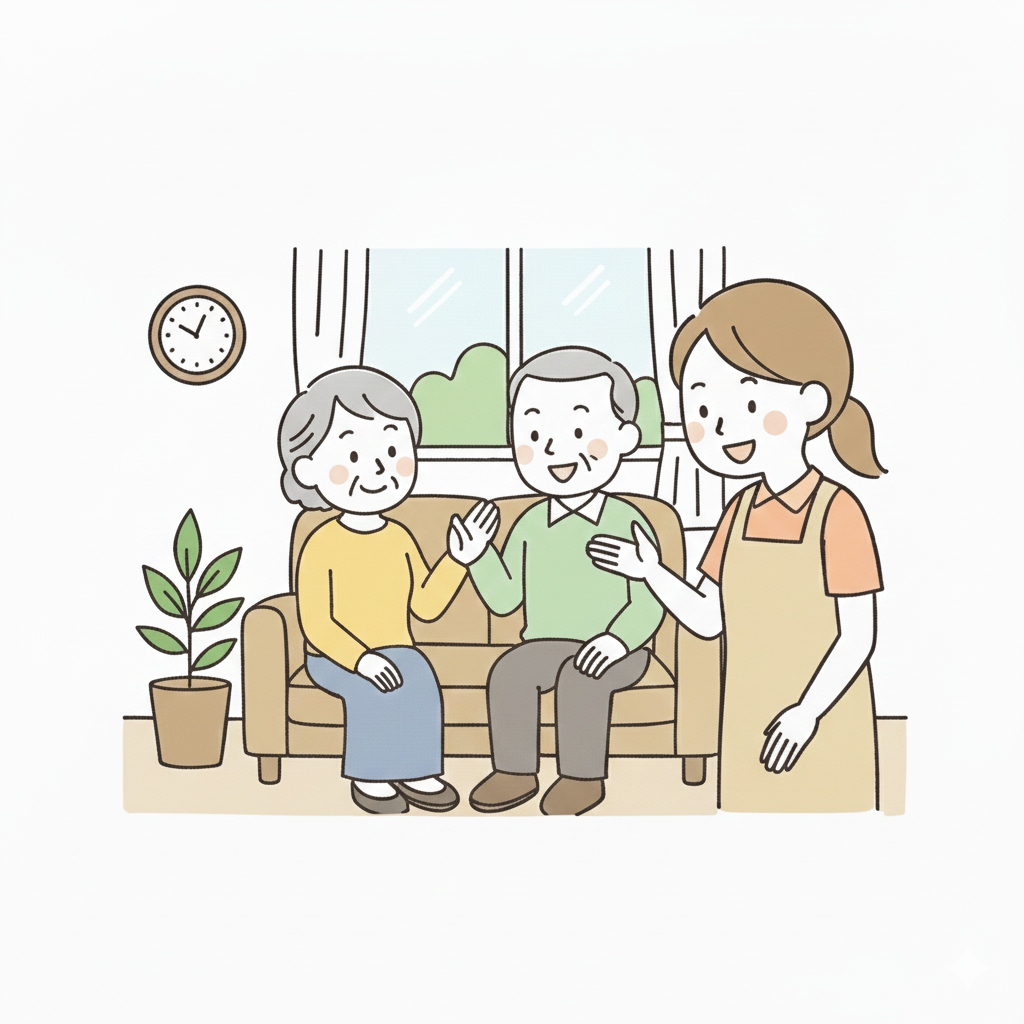
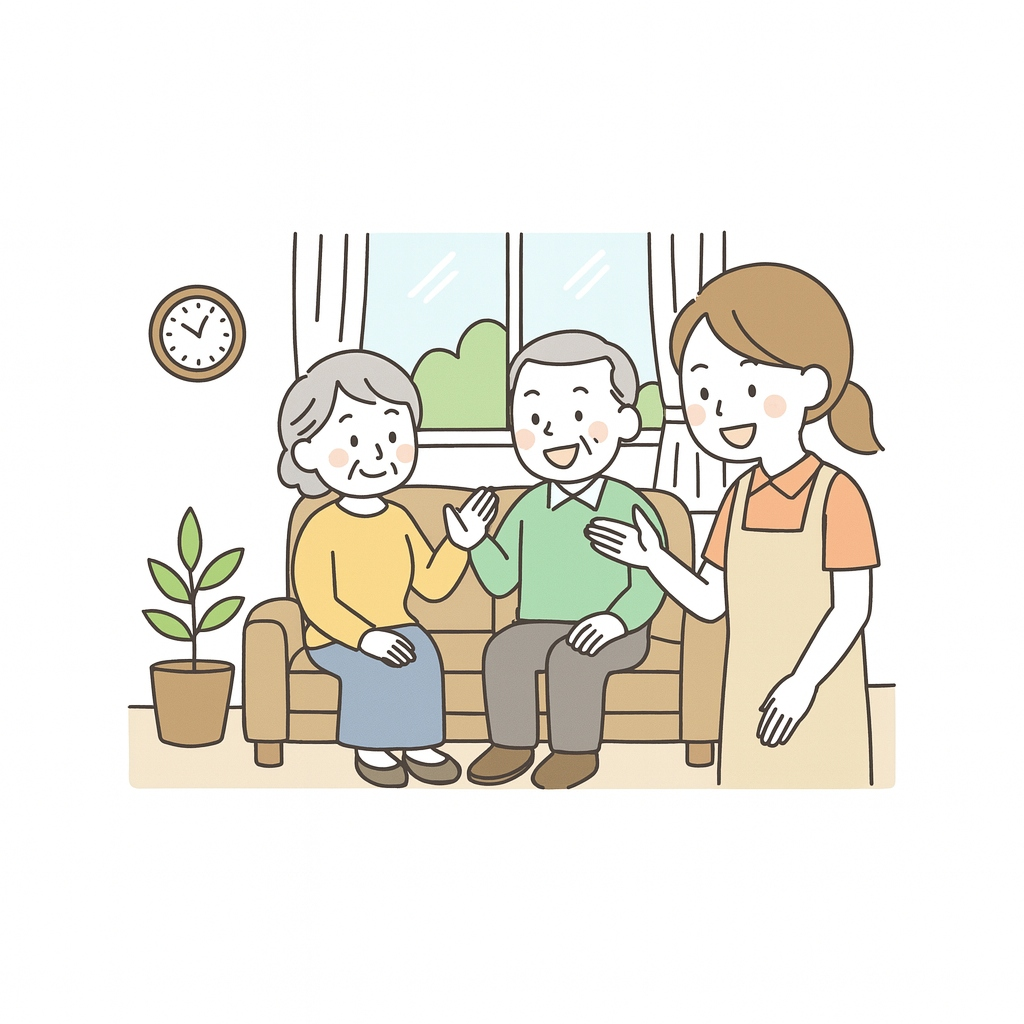
Update styles and optimize images
- Optimize case study images (reduced file size)
- Update index.html with minor adjustments
- Enhance CSS styles

🤖 Generated with [Claude Code](https://claude.com/claude-code)

Changed region(s): [[0.0938, 0.2188, 0.9062, 0.8125], [0.125, 0.2812, 0.25, 0.375]]

diff --git a/style.css b/style.css
@@ -271,8 +271,8 @@ section {
 /* Problem Section */
 .problem {
     padding-top: 0;
-    margin-top: -180px;
-    /* Increased pull-up to -180px */
+    margin-top: -320px;
+    /* Increased pull-up to -320px for maximum tightness */
     position: relative;
     z-index: 2;
 }
@@ -372,11 +372,20 @@ section {
     align-items: center;
     justify-content: center;
     height: 100%;
-    /* Match container height roughly */
-    color: var(--primary-light);
-    font-size: 2rem;
-    padding-top: 60px;
-    /* visually align with card center approx */
+    padding-top: 30px;
+    color: #fff;
+    font-size: 1.5rem;
+}
+
+.step-arrow i {
+    background: linear-gradient(135deg, #ff6b9d 0%, #f67280 100%);
+    width: 40px;
+    height: 40px;
+    border-radius: 50%;
+    display: flex;
+    align-items: center;
+    justify-content: center;
+    box-shadow: 0 5px 15px rgba(255, 107, 157, 0.4);
 }
 
 .arrow-down {
@@ -662,6 +671,29 @@ section {
     border-radius: 0 0 15px 15px;
 }
 
+.solution-message {
+    margin-top: 60px;
+    padding: 40px 30px;
+    background: linear-gradient(135deg, #ff6b9d 0%, #f67280 100%);
+    border-radius: 20px;
+    box-shadow: 0 10px 30px rgba(255, 107, 157, 0.3);
+}
+
+.solution-message h3 {
+    font-size: 3.5rem;
+    font-weight: 900;
+    color: #fff;
+    margin-bottom: 20px;
+    line-height: 1.2;
+}
+
+.solution-message p {
+    color: #fff;
+    opacity: 0.95;
+    font-size: 1.3rem;
+    font-weight: 500;
+}
+
 .plan-name {
     font-size: 1.4rem;
     font-weight: 700;
@@ -853,6 +885,37 @@ section {
     margin-bottom: 20px;
     border: 3px solid var(--white);
     box-shadow: 0 5px 15px rgba(0, 0, 0, 0.05);
+}
+
+/* Colorful icons for each benefit */
+.benefit-card:nth-child(1) .benefit-icon {
+    background: linear-gradient(135deg, #667eea 0%, #764ba2 100%);
+    color: white;
+}
+
+.benefit-card:nth-child(2) .benefit-icon {
+    background: linear-gradient(135deg, #f093fb 0%, #f5576c 100%);
+    color: white;
+}
+
+.benefit-card:nth-child(3) .benefit-icon {
+    background: linear-gradient(135deg, #4facfe 0%, #00f2fe 100%);
+    color: white;
+}
+
+.benefit-card:nth-child(4) .benefit-icon {
+    background: linear-gradient(135deg, #43e97b 0%, #38f9d7 100%);
+    color: white;
+}
+
+.benefit-card:nth-child(5) .benefit-icon {
+    background: linear-gradient(135deg, #fa709a 0%, #fee140 100%);
+    color: white;
+}
+
+.benefit-card:nth-child(6) .benefit-icon {
+    background: linear-gradient(135deg, #30cfd0 0%, #330867 100%);
+    color: white;
 }
 
 .benefit-card h3 {
@@ -1097,5 +1160,113 @@ section {
 
     .company-info dd {
         padding-left: 10px;
+    }
+}
+
+/* CTA Section - Make it SUPER prominent */
+.cta-tagline {
+    font-size: 3.5rem;
+    font-weight: 900;
+    color: #fff;
+    margin-bottom: 30px;
+    text-shadow: 0 4px 20px rgba(0, 0, 0, 0.5);
+    letter-spacing: 1px;
+    line-height: 1.2;
+}
+
+.cta-title {
+    font-size: 3rem;
+    font-weight: 900;
+    color: #fff;
+    background: transparent;
+    padding: 10px 20px;
+    margin-bottom: 5px;
+    display: inline-block;
+    -webkit-text-stroke: 3px #ff6b9d;
+    text-stroke: 3px #ff6b9d;
+    text-shadow: 0 0 10px rgba(255, 255, 255, 0.8);
+}
+
+.cta-desc {
+    font-size: 1.2rem;
+    margin-bottom: 10px;
+    color: #ff6b9d;
+    opacity: 1;
+}
+
+/* Make the button SUPER prominent */
+.cta .btn-white {
+    font-size: 1.8rem;
+    padding: 30px 80px;
+    font-weight: 900;
+    background: linear-gradient(135deg, #ff6b9d 0%, #f67280 100%);
+    color: #fff;
+    border: none;
+    box-shadow: 0 10px 40px rgba(255, 107, 157, 0.4), 0 0 30px rgba(255, 107, 157, 0.3);
+    animation: button-pulse 2s ease-in-out infinite;
+    position: relative;
+    overflow: hidden;
+}
+
+/* Shine effect */
+.cta .btn-white::after {
+    content: "";
+    position: absolute;
+    top: -50%;
+    left: -100%;
+    width: 50%;
+    height: 200%;
+    background: linear-gradient(90deg, transparent, rgba(255, 255, 255, 0.8), transparent);
+    transform: skewX(-25deg);
+    animation: shine 5s infinite;
+}
+
+@keyframes shine {
+    0% {
+        left: -100%;
+    }
+
+    20% {
+        left: 150%;
+    }
+
+    100% {
+        left: 150%;
+    }
+}
+
+.cta .btn-white::before {
+    content: "";
+    position: absolute;
+    top: 50%;
+    left: 50%;
+    width: 0;
+    height: 0;
+    border-radius: 50%;
+    background: rgba(255, 255, 255, 0.5);
+    transform: translate(-50%, -50%);
+    transition: width 0.6s, height 0.6s;
+    z-index: 1;
+}
+
+.cta .btn-white:hover::before {
+    width: 300px;
+    height: 300px;
+}
+
+.cta .btn-white:hover {
+    transform: translateY(-5px) scale(1.05);
+    box-shadow: 0 15px 50px rgba(0, 0, 0, 0.4), 0 0 50px rgba(255, 255, 255, 0.8);
+}
+
+@keyframes button-pulse {
+
+    0%,
+    100% {
+        box-shadow: 0 10px 40px rgba(0, 0, 0, 0.3), 0 0 30px rgba(255, 255, 255, 0.5);
+    }
+
+    50% {
+        box-shadow: 0 10px 40px rgba(0, 0, 0, 0.3), 0 0 50px rgba(255, 255, 255, 0.9);
     }
 }

diff --git a/index.html b/index.html
@@ -82,7 +82,7 @@
                     <i class="fa-solid fa-caret-down"></i>
                 </div>
                 <div class="solution-message text-center">
-                    <h3>そのお悩み、<br class="sp-only">すべてお任せください！</h3>
+                    <h3>そのお悩み、全てお任せください!</h3>
                     <p>写真をLINEで送るだけ。<br>あとはプロが魅力的な投稿を作成します。</p>
                 </div>
             </div>
@@ -366,22 +366,22 @@
         <!-- CTA Section -->
         <section id="contact" class="cta">
             <div class="container cta-container text-center">
-                <h2 class="cta-title">まずは無料相談から！</h2>
+                <h2 class="cta-title">まずは無料相談から!</h2>
                 <p class="cta-desc">
-                    職員様向けのSNS講座も実施中！<br>
+                    職員様向けのSNS講座も実施中!<br>
                     お困りごとはどんなことでもご相談ください。
                 </p>
                 <a href="https://forms.gle/82RpzWLop1iFDff38" target="_blank"
                     class="btn btn-white btn-lg shadow-pulse">お問い合わせはこちら <i class="fa-solid fa-envelope"></i></a>
-                <p class="cta-note">※現在はデモページのためリンクは無効です</p>
+
             </div>
         </section>
 
         <!-- Other Services Section -->
         <section class="other-services bg-pink-light">
             <div class="container">
-                <h2 class="section-title text-center">Instagram以外も<br><span class="marker-pink">まるっとお任せ！</span></h2>
-                <p class="text-center mb-40">Webマーケティングに関するあらゆる業務をサポートします。</p>
+                <h2 class="section-title text-center">Instagram以外も<span class="marker-pink">まるっとお任せ!</span></h2>
+                <p class="text-center mb-40">Webマーケティングに関するあらゆる業務をサポートします。<br>気になる項目がありましたら、お気軽にご相談くださいませ。</p>
                 <div class="service-grid">
                     <div class="service-card">
                         <div class="service-icon"><i class="fa-solid fa-laptop-code"></i></div>
